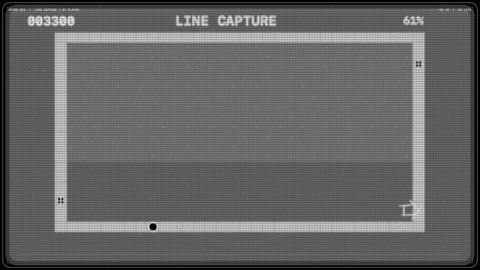
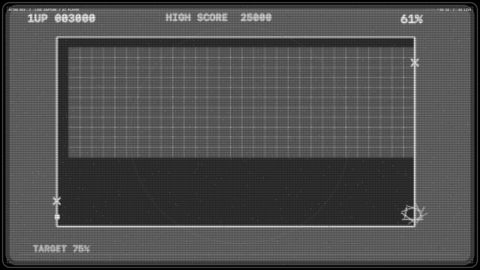
Update arcade game previews for 1.8.1

diff --git a/README.md b/README.md
@@ -24,7 +24,7 @@ The image shows an already unlocked JMR license.
 
 ## Download and install
 
-Download the ZIP from [version 1.8.0](https://github.com/mikaelmoran/retro-mix-arcade-downloads/releases/tag/v1.8.0), expand it, and move
+Download the ZIP from [version 1.8.1](https://github.com/mikaelmoran/retro-mix-arcade-downloads/releases/tag/v1.8.1), expand it, and move
 **Retro Mix Arcade.app** to Applications. Open the app, choose a game, and
 click **Save selection**. In **System Settings → Wallpaper → Screen Saver**,
 choose **Retro Mix Arcade**.
@@ -74,8 +74,8 @@ Security → Open Anyway** as described in [Apple's instructions](https://suppor
   traffic, logs, diving turtles, crocodiles, five homes, and an AI frog that
   plans its next landing. They draw inspiration from Centipede and Frogger.
 - Horizon Defense, Barrel Climb, and Line Capture are inspired by Defender,
-  Donkey Kong, and Qix. Their AI pilots intercept aliens, jump and climb
-  around barrels, and draw lines to claim territory. Each has four optional
+  Donkey Kong, and Qix. Their AI pilots intercept aliens over a scrolling world, jump and climb
+  around barrels, and draw lines to claim territory while avoiding hazards. Each has four optional
   game effects alongside the shared CRT controls.
 - Tank Duel's dark field, bright walls, small rotating tanks, and simple score
   display take cues from the original arcade game.

diff --git a/RELEASE_NOTES.md b/RELEASE_NOTES.md
@@ -1,18 +1,16 @@
-# Retro Mix Arcade 1.8.0
+# Retro Mix Arcade 1.8.1
 
-Three new AI-played games join the arcade:
+The three newest arcade games have updated graphics and motion:
 
-- **Horizon Defense**, inspired by Defender: intercept descending aliens
-  and protect people on the ground.
-- **Barrel Climb**, inspired by Donkey Kong: jump rolling barrels, climb
-  ladders and reach the top of the stage.
-- **Line Capture**, inspired by Qix: draw lines to claim territory while
-  avoiding the moving shape.
+- **Horizon Defense** now scrolls around a wider world, with a scanner,
+  animated ships, enemy fire, evasive AI and particle bursts.
+- **Barrel Climb** has more detailed girders, ladders and pixel characters,
+  with rolling and falling barrels.
+- **Line Capture** has a thinner playfield, animated line work and smoothly
+  moving player marker and edge hazards. The target now matches the displayed
+  75 percent.
 
-All fifteen games use the shared Sprint CRT renderer and can be chosen in
-the settings app, screen saver options, or Mixed mode. The three new games
-each add four adjustable game effects alongside the shared CRT controls.
-Previous Mixed selections migrate automatically.
+All games continue to use the shared monochrome CRT display and effects.
 
 ## Installation
 
